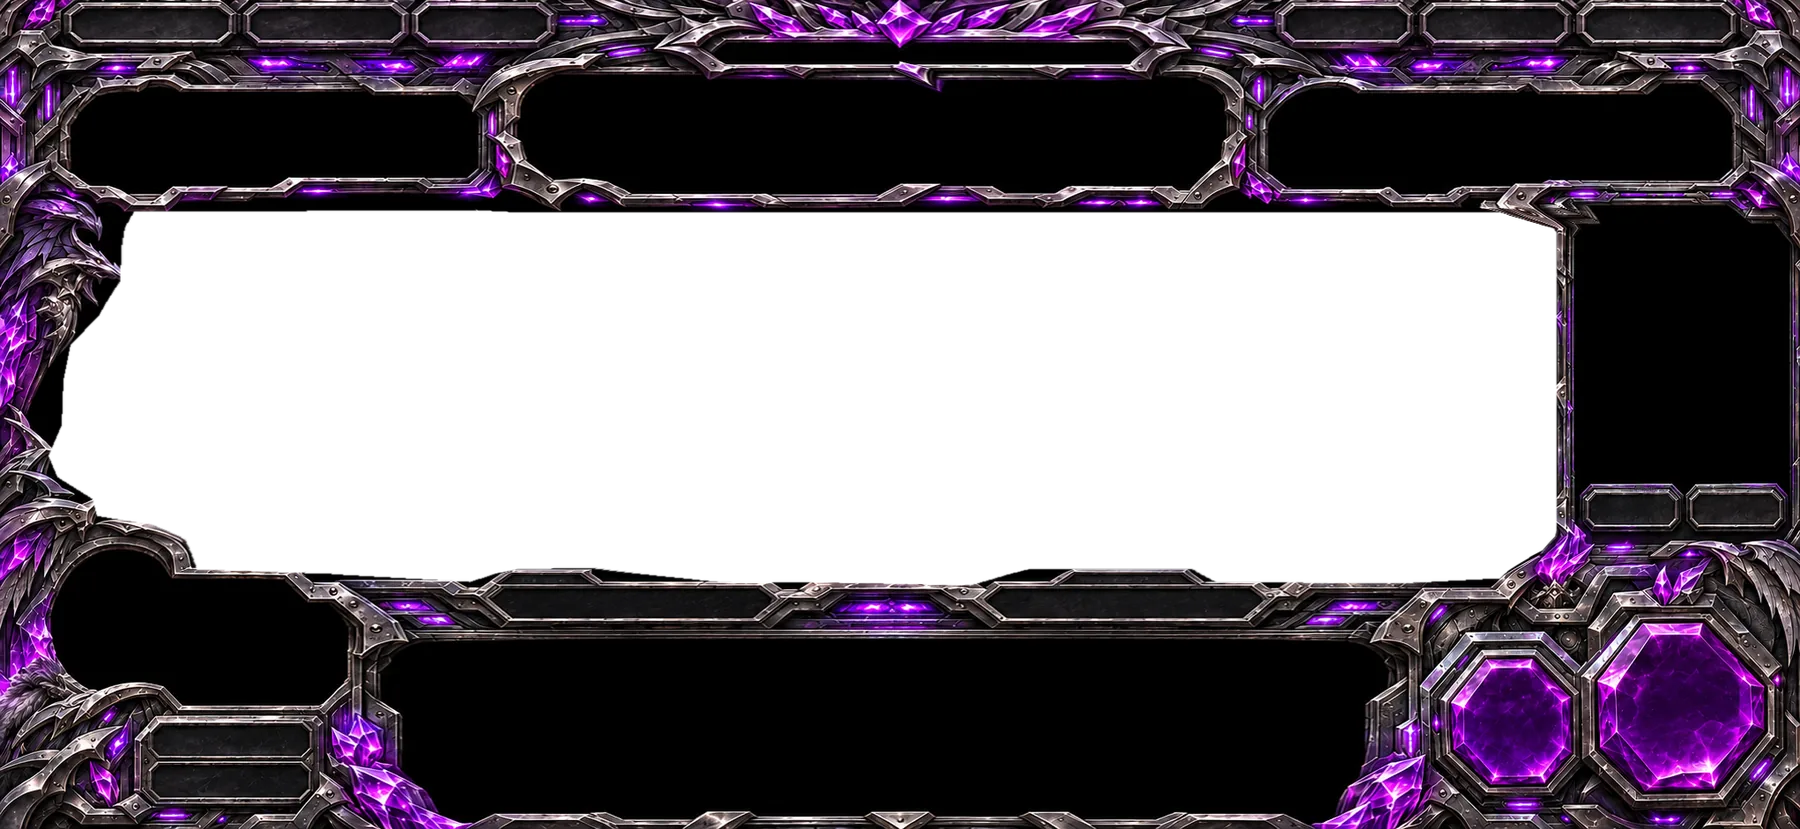
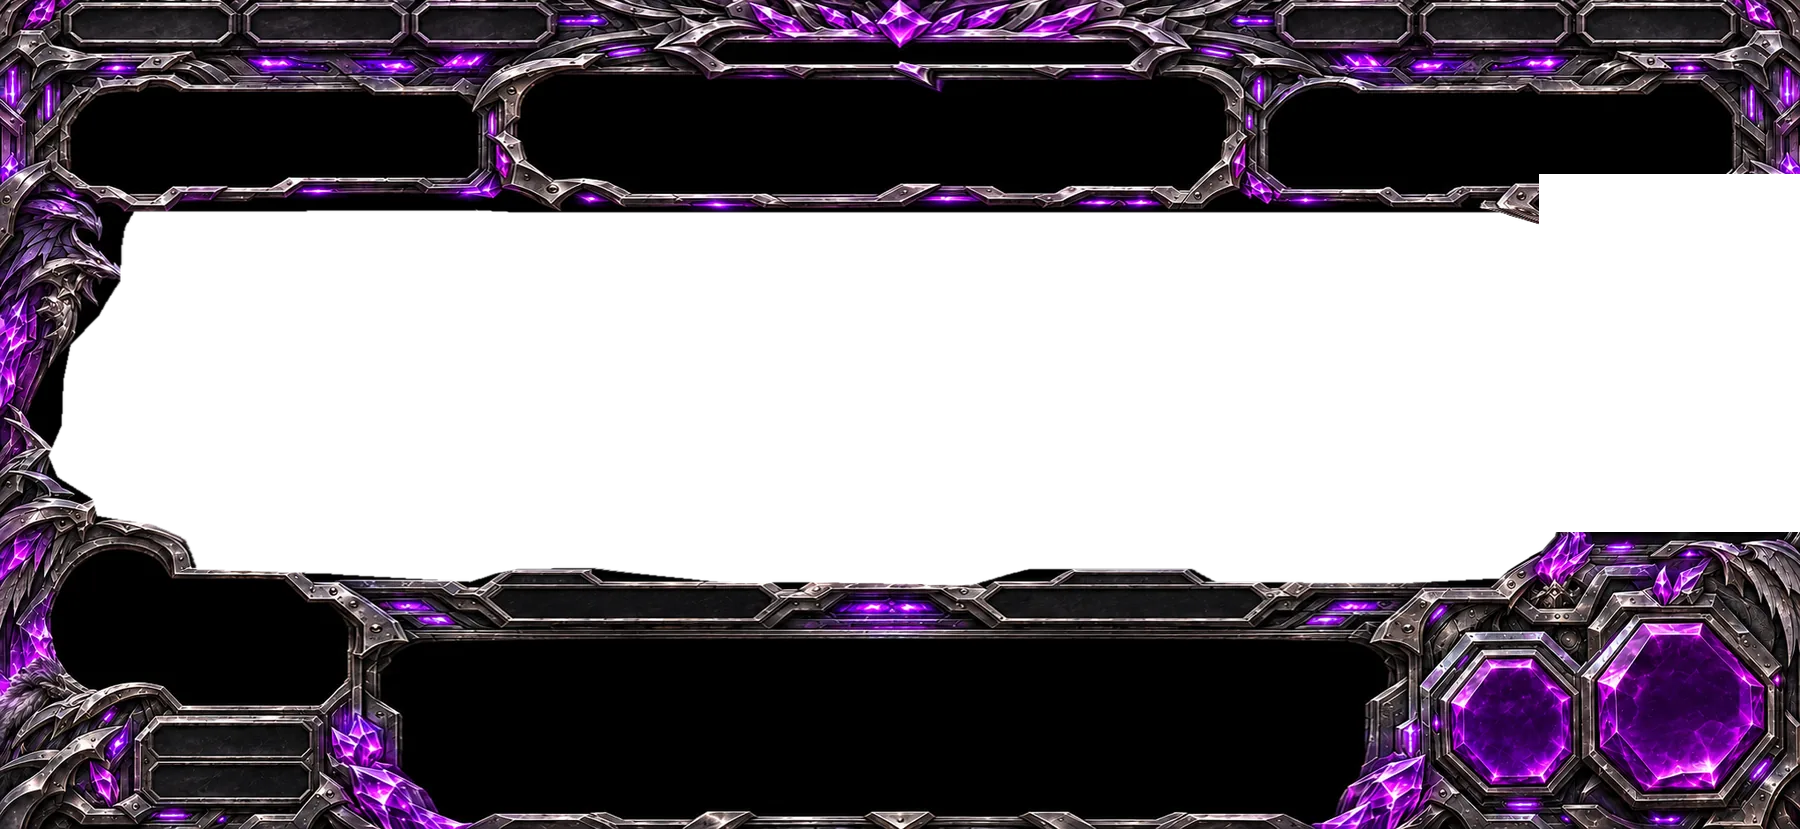
iPhone game log: owner's housing replaces the baked chassis log column (8 palettes); Stack/Undo in its key slots, Board/Table above them
Claude-Session: https://claude.ai/code/session_019NdtRsHhqpW94XWSLkZL4p

Changed region(s): [[0.84, 0.2111, 1.0, 0.6634]]

diff --git a/rebuild/styles/skin-palettes.css b/rebuild/styles/skin-palettes.css
@@ -36,6 +36,7 @@
   --sk-utility-disabled: url("../assets/skin/amethyst/utility-disabled.webp");
   --sk-chassis-phone: url("../assets/skin/amethyst/chassis-phone.webp");
   --sk-chassis-tablet: url("../assets/skin/amethyst/chassis-tablet.webp");
+  --sk-log-housing: url("../assets/skin/amethyst/log-housing.webp");
   --sk-log-key-l-normal: url("../assets/skin/amethyst/log-key-l-normal.webp");
   --sk-log-key-l-pressed: url("../assets/skin/amethyst/log-key-l-pressed.webp");
   --sk-log-key-l-disabled: url("../assets/skin/amethyst/log-key-l-disabled.webp");
@@ -79,6 +80,7 @@
   --sk-utility-disabled: url("../assets/skin/dark-alley/utility-disabled.webp");
   --sk-chassis-phone: url("../assets/skin/dark-alley/chassis-phone.webp");
   --sk-chassis-tablet: url("../assets/skin/dark-alley/chassis-tablet.webp");
+  --sk-log-housing: url("../assets/skin/dark-alley/log-housing.webp");
   --sk-log-key-l-normal: url("../assets/skin/dark-alley/log-key-l-normal.webp");
   --sk-log-key-l-pressed: url("../assets/skin/dark-alley/log-key-l-pressed.webp");
   --sk-log-key-l-disabled: url("../assets/skin/dark-alley/log-key-l-disabled.webp");
@@ -122,6 +124,7 @@
   --sk-utility-disabled: url("../assets/skin/night-flight/utility-disabled.webp");
   --sk-chassis-phone: url("../assets/skin/night-flight/chassis-phone.webp");
   --sk-chassis-tablet: url("../assets/skin/night-flight/chassis-tablet.webp");
+  --sk-log-housing: url("../assets/skin/night-flight/log-housing.webp");
   --sk-log-key-l-normal: url("../assets/skin/night-flight/log-key-l-normal.webp");
   --sk-log-key-l-pressed: url("../assets/skin/night-flight/log-key-l-pressed.webp");
   --sk-log-key-l-disabled: url("../assets/skin/night-flight/log-key-l-disabled.webp");
@@ -165,6 +168,7 @@
   --sk-utility-disabled: url("../assets/skin/ember/utility-disabled.webp");
   --sk-chassis-phone: url("../assets/skin/ember/chassis-phone.webp");
   --sk-chassis-tablet: url("../assets/skin/ember/chassis-tablet.webp");
+  --sk-log-housing: url("../assets/skin/ember/log-housing.webp");
   --sk-log-key-l-normal: url("../assets/skin/ember/log-key-l-normal.webp");
   --sk-log-key-l-pressed: url("../assets/skin/ember/log-key-l-pressed.webp");
   --sk-log-key-l-disabled: url("../assets/skin/ember/log-key-l-disabled.webp");
@@ -208,6 +212,7 @@
   --sk-utility-disabled: url("../assets/skin/frost/utility-disabled.webp");
   --sk-chassis-phone: url("../assets/skin/frost/chassis-phone.webp");
   --sk-chassis-tablet: url("../assets/skin/frost/chassis-tablet.webp");
+  --sk-log-housing: url("../assets/skin/frost/log-housing.webp");
   --sk-log-key-l-normal: url("../assets/skin/frost/log-key-l-normal.webp");
   --sk-log-key-l-pressed: url("../assets/skin/frost/log-key-l-pressed.webp");
   --sk-log-key-l-disabled: url("../assets/skin/frost/log-key-l-disabled.webp");
@@ -251,6 +256,7 @@
   --sk-utility-disabled: url("../assets/skin/gold/utility-disabled.webp");
   --sk-chassis-phone: url("../assets/skin/gold/chassis-phone.webp");
   --sk-chassis-tablet: url("../assets/skin/gold/chassis-tablet.webp");
+  --sk-log-housing: url("../assets/skin/gold/log-housing.webp");
   --sk-log-key-l-normal: url("../assets/skin/gold/log-key-l-normal.webp");
   --sk-log-key-l-pressed: url("../assets/skin/gold/log-key-l-pressed.webp");
   --sk-log-key-l-disabled: url("../assets/skin/gold/log-key-l-disabled.webp");
@@ -294,6 +300,7 @@
   --sk-utility-disabled: url("../assets/skin/forge/utility-disabled.webp");
   --sk-chassis-phone: url("../assets/skin/forge/chassis-phone.webp");
   --sk-chassis-tablet: url("../assets/skin/forge/chassis-tablet.webp");
+  --sk-log-housing: url("../assets/skin/forge/log-housing.webp");
   --sk-log-key-l-normal: url("../assets/skin/forge/log-key-l-normal.webp");
   --sk-log-key-l-pressed: url("../assets/skin/forge/log-key-l-pressed.webp");
   --sk-log-key-l-disabled: url("../assets/skin/forge/log-key-l-disabled.webp");
@@ -337,6 +344,7 @@
   --sk-utility-disabled: url("../assets/skin/emerald/utility-disabled.webp");
   --sk-chassis-phone: url("../assets/skin/emerald/chassis-phone.webp");
   --sk-chassis-tablet: url("../assets/skin/emerald/chassis-tablet.webp");
+  --sk-log-housing: url("../assets/skin/emerald/log-housing.webp");
   --sk-log-key-l-normal: url("../assets/skin/emerald/log-key-l-normal.webp");
   --sk-log-key-l-pressed: url("../assets/skin/emerald/log-key-l-pressed.webp");
   --sk-log-key-l-disabled: url("../assets/skin/emerald/log-key-l-disabled.webp");

diff --git a/rebuild/src/ui/game/board-layout.js b/rebuild/src/ui/game/board-layout.js
@@ -44,16 +44,16 @@ const PHONE = {
     creatures: [109.52, 275.64, 176.96, 96.32], artifacts: [297.88, 275.82, 110.24, 91.16], enchantments: [460.85, 275.82, 111.3, 91.16],
     planeswalkers: [617.85, 275.82, 111.3, 91.16], lands: [757.3, 275.64, 218.4, 96.32]
   },
-  // Housings measured in the frame art (chassis/iPhone-*-edge.png): the log window (x 1014.6-1153, y 132.5-315.5) and one
-  // pair of key housings under it (y 317.8-338.3): Board and Table sit on those. Stack / Undo and Host Tools have no
-  // housing in the frame, so they keep the kit's utility key art, on the same columns, inside the window and below the pair.
-  log: { cluster: [1016, 139, 132, 261], face: [1014.6, 139, 138.6, 26], hit: [1016, 139, 132, 50], rows: [1025, 169, 115, 65] },
+  // Log column: the chassis' own column is erased in the phone art; the owner's housing replaces it (see tools below).
+  log: { cluster: [1011.8, 114, 136.2, 261], housing: [994, 114, 166, 229], face: [1014.6, 139, 138.6, 26], hit: [1016, 139, 132, 50], rows: [1025, 169, 115, 65] },
   tools: {
-    // iPhone: the owner's log command keys (left / right, 133 x 64 and 130 x 64 art), centred on the old utility keys.
-    stack: { face: [1017, 252.5, 66, 31.7], hit: [1016, 244, 68.7, 50.7], art: true, logKey: 'l' },
-    undo: { face: [1083.4, 252.5, 66, 32.5], hit: [1084.7, 244, 63.3, 50.7], art: true, logKey: 'r' },
-    board: { face: [1023.7, 317.8, 55.6, 20.5], hit: [1016, 294.7, 68.7, 52.7] },
-    table: { face: [1090.1, 317.8, 56.3, 20.5], hit: [1084.7, 294.7, 63.3, 52.7] },
+    // iPhone (owner, 22 Nov: "replace that area"): the owner's log housing, 166 x 229 at the housing's 308 x 425 proportions,
+    // covers the erased chassis column (assets/skin tools/skin-assets.py LOG_ERASE). Its two key slots (y 298.9-327) take Stack and
+    // Undo; Board and Table are the same command keys in a row above them, under the three entries.
+    stack: { face: [1012.5, 296.5, 69.4, 33.4], hit: [1011.8, 291.7, 69.5, 50.7], art: true, logKey: 'l' },
+    undo: { face: [1085, 296.5, 68, 33.4], hit: [1084.5, 291.7, 69.5, 50.7], art: true, logKey: 'r' },
+    board: { face: [1012.5, 249.8, 69.4, 33.4], hit: [1011.8, 241, 69.5, 50.7], art: true, logKey: 'l' },
+    table: { face: [1085, 249.8, 68, 33.4], hit: [1084.5, 241, 69.5, 50.7], art: true, logKey: 'r' },
     host: { face: [1023.7, 358, 122.7, 20.5], hit: [1016, 347.4, 132, 52.6], art: true }
   },
   // Jewels: hit = the map's control rect; art = where the jewel art lines up with the chassis housing (matched against

diff --git a/rebuild/src/ui/game/board-view.js b/rebuild/src/ui/game/board-view.js
@@ -234,6 +234,7 @@ export function boardHtml(o) {
       </div>
 
       <div class="game__right gp-contents">
+        ${L.log.housing ? html`<span ${at(L.log.housing, 'gp-loghousing', { cluster: rail })} aria-hidden="true"></span>` : ''}
         <div class="glog gp-contents ${phone ? 'glog--phone' : ''}">
           <button type="button" ${at(L.log.hit, 'gp-key gp-logtitle link-btn glog__title is-clamp', { face: L.log.face, cluster: rail })} data-act="log"><span class="gp-face">Game Log</span></button>
           <ol ${at(L.log.rows, 'glog__list gp-logrows', { cluster: rail })}>${view.log.slice(0, logLength(phone)).map(e => html`<li class="glog__row glog__row--${e.type || 'plain'}">${e.text}</li>`)}</ol>

diff --git a/rebuild/styles/game-board.css b/rebuild/styles/game-board.css
@@ -269,3 +269,4 @@
 
 /* The pass curtain covers the whole stage. */
 .game--gp .curtain { z-index: 50; }
+.gp--phone .gp-loghousing { background: var(--sk-log-housing) 0 0 / 100% 100% no-repeat; pointer-events: none; }

diff --git a/rebuild/tools/skin-assets.py b/rebuild/tools/skin-assets.py
@@ -4,7 +4,7 @@
     python3 -I tools/skin-assets.py /path/to/extracted/handoff [--sizes]   (about 2 minutes)
     python3 -I tools/skin-assets.py --dice [life-dice folder]               (reward dice art -> assets/skin/dice/)
     python3 -I tools/skin-assets.py --mats [playmats folder]                (reward playmats -> assets/skin/mats/, prints palette picks)
-    python3 -I tools/skin-assets.py --log [frame folder]                    (iPhone Stack/Undo log command keys (the housing is already in the chassis art) -> assets/skin/<palette>/log-*.webp)
+    python3 -I tools/skin-assets.py --log [frame folder]                    (iPhone Stack/Undo log command keys and the game-log housing; the iPhone chassis is rebuilt with the baked log column erased -> assets/skin/<palette>/log-*.webp)
     python3 -I tools/skin-assets.py --css                                  (only rewrite styles/skin-palettes.css)
 
 Layout written (ids are the app's lower-case playmat ids, data/playmats.js):
@@ -49,7 +49,9 @@ GAME = [
 # The player status light (art/status, amber in the handoff) tinted per state (owner, 15 Nov: green / yellow / red).
 STATUS_TINTS = {'green': 105, 'yellow': 18, 'red': -32}   # hue shift in degrees from the amber lens
 QUALITY = 82
-# iPhone game-log keys (owner's frame folder: art/log-command-key-left/right; 8 palettes; keys also pressed/disabled)
+# iPhone game-log housing + keys (owner's frame folder: art/game-log-housing, art/log-command-key-left/right; 8 palettes; keys also pressed/disabled)
+# Baked log column of the iPhone chassis (1160 x 535 map units: window, Board/Table bays) that the owner's housing replaces (22 Nov).
+LOG_ERASE = (992, 112, 1160, 343)
 LOG_KEYS = [('log-command-key-left', 'log-key-l'), ('log-command-key-right', 'log-key-r')]
 
 
@@ -65,6 +67,15 @@ def fit(im, box):
     if scale >= 1:
         return im
     return im.resize((round(im.width * scale), round(im.height * scale)), Image.LANCZOS)
+
+
+def erase_log_column(im):
+    """Clear the chassis' baked log column (alpha 0) so the playmat and the owner's housing art show there."""
+    k = im.width / 1160
+    x0, y0, x1, y1 = (round(v * k) for v in LOG_ERASE)
+    im = im.convert('RGBA')
+    im.paste((0, 0, 0, 0), (x0, y0, min(x1, im.width), y1))
+    return im
 
 
 def save(im, out, lossless=False):
@@ -111,6 +122,7 @@ def write_css(root):
         for _, name, _ in GAME:
             if name != 'die':
                 decl.append(f'--sk-{name}: url("../assets/skin/{pid(p)}/{name}.webp")')
+        decl.append(f'--sk-log-housing: url("../assets/skin/{pid(p)}/log-housing.webp")')
         for _, name in LOG_KEYS:
             for st in ('normal', 'pressed', 'disabled'):
                 decl.append(f'--sk-{name}-{st}: url("../assets/skin/{pid(p)}/{name}-{st}.webp")')
@@ -157,6 +169,9 @@ def main():
     if '--log' in sys.argv:   # iPhone game-log housing and command keys (lazy per palette, like the other palette art)
         d = args[0] if args else '/home/user/dc-runs/ilog/frame'
         for p in PALETTES:
+            save(Image.open(os.path.join(d, 'art/game-log-housing', f'{p}-normal.png')).convert('RGBA'), os.path.join(dest, pid(p), 'log-housing.webp'))
+            ch = fit(Image.open(os.path.join(args[1] if len(args) > 1 else '/home/user/vh', f'art/chassis/iPhone-{p}-edge.png')).convert('RGBA'), (1800, None))
+            save(erase_log_column(ch), os.path.join(dest, pid(p), 'chassis-phone.webp'))
             for fam, name in LOG_KEYS:
                 for st in ('normal', 'pressed', 'disabled'):
                     save(Image.open(os.path.join(d, 'art', fam, f'{p}-{st}.png')).convert('RGBA'), os.path.join(dest, pid(p), f'{name}-{st}.webp'))
@@ -176,6 +191,8 @@ def main():
         im = Image.open(os.path.join(src, rel_src))
         im.load()
         im = fit(im.convert('RGBA') if 'A' in im.getbands() or im.mode == 'P' else im.convert('RGB'), box)
+        if rel_out.endswith('/chassis-phone.webp'):
+            im = erase_log_column(im)
         n = save(im, os.path.join(dest, rel_out), lossless)
         group = rel_out.split('/')[0]
         totals[group] = totals.get(group, 0) + n

diff --git a/rebuild/tests/shots_game.py b/rebuild/tests/shots_game.py
@@ -91,7 +91,7 @@ VB = {'iPhone': (1160, 535), 'iPad': (950, 610)}
 # housings under the log, the mana well and tips pane bars above the hand, the hand window's centre line.
 HOUSINGS = {
     'iPhone': {'graveyard': (97.7, 466.5, 148.25, 487.5), 'tokens': (148.25, 466.5, 198.8, 487.5), 'exile': (97.7, 492, 148.25, 514.2), 'attachments': (148.25, 492, 198.8, 514.2),
-               'board': (1023.7, 317.8, 1079.3, 338.3), 'table': (1090.1, 317.8, 1146.4, 338.3), 'mana': (314.1, 369.6, 500.5, 399.1), 'tip': (634, 369, 816.3, 398.5), 'hand': (252.2, 413, 890.2, 423)},
+               'board': (1012.5, 249.8, 1081.9, 283.2), 'table': (1085, 249.8, 1153, 283.2), 'mana': (314.1, 369.6, 500.5, 399.1), 'tip': (634, 369, 816.3, 398.5), 'hand': (252.2, 413, 890.2, 423)},
     'iPad': {'graveyard': (97.7, 541.5, 148.25, 562.5), 'tokens': (148.25, 541.5, 198.8, 562.5), 'exile': (97.7, 567, 148.25, 589.2), 'attachments': (148.25, 567, 198.8, 589.2),
              'board': (796, 392.8, 859.1, 413.3), 'table': (871, 392.8, 934.7, 413.3), 'mana': (285.8, 444.6, 414.8, 474.1), 'tip': (508, 444, 634.7, 473.6), 'hand': (242.6, 488, 686.4, 498)},
 }

diff --git a/rebuild/DEVICE_CHECKS.md b/rebuild/DEVICE_CHECKS.md
@@ -141,7 +141,7 @@ V34. ☐ Game History (Recent games panel, Close) and Achievements (Level panel 
 V35. ☐ Settings: Guidance level (Coach / Assist / Rules only) and Preferences (Learning tips and Send rule corrections switches, Account, Backup, Dev report); Close. Switches show on/off art.
 V36. ☐ Rules (Table rules before a game, Table Defaults, host Rules edit): Commander panel and Table options panel with switches, House rule chips still appear, and Who goes first? sits at the bottom of Table options. Cancel/Back and Save/Start still work. Table Defaults: Players on the left, house rules on the right.
 V37. ☐ Help (Ask the Judge): Search rules panel (search box and topic chips) and Result panel; the dialog has the plain panel background, no striped judge background. Searching filters the results.
-V50. ☐ Open a card that is not in the deck (card window) with card strength on, next to the Upgrades row for the same swap → expect the same power number on both (e.g. "+0.1 power"), plus a separate "Deck score ±x" chip; "power" never labels the deck-score change.
+V50. ☐ iPhone game screen, every palette (change the playmat in Settings): the right-hand log column is the owner's game-log housing in that palette (the old baked column is gone, no leftover steel or black strip around it). Inside it: Game Log title and three entries, then Board / Table, then Stack / Undo sitting in the housing's two key slots; all four wear the log command keys (left and right), text centred. Press and hold each: the pressed look shows. With nothing to undo, Undo is dimmed. Every key is easy to tap and none triggers its neighbour. Host Tools sits just below, unchanged. Notch on the left and on the right: the column moves in with the safe area and nothing is cut. A palette's art may load a moment after you pick it. iPad and desktop unchanged.
 V38. ☐ Change the playmat to Ember and Frost: all these routes take the colour; on the iPad the panels are taller and centred.
 
 ## In-game dialogs, Table Tracker, host Table View and Judge View (visual rebuild, stage 3d)

diff --git a/rebuild/INDEX.md b/rebuild/INDEX.md
@@ -48,7 +48,7 @@ Line numbers drift; grep the function name (`grep -n "^function name" file`), th
 | Rules audit | tools/rules-audit.mjs <scryfall.json> |
 | Practice-match bot | src/game/bot.js, practice-match.js |
 | Game screen layout | src/ui/screens/game.js (render; opponent seats oppRowHtml, controlsHtml) · src/ui/game/play-state.js (statusLight, playControls, seatLayout/rotateTo, phone log length; node tests in tests/node/game.mjs) · styles/game-play.css · player effects for the light: game/view.js row.effects |
-| iPhone log keys (Stack / Undo art, per palette, pressed / disabled) | tools/skin-assets.py --log [frame folder] -> assets/skin/<palette>/log-key-{l,r}-*.webp; vars --sk-log-key-*; styles/game-board.css `.gp-tool--log-*`; layout board-layout.js phone tools.stack/undo `logKey`. The log housing is already baked into the chassis (not layered) |
+| iPhone log column (owner's housing replaces the chassis' baked column; Stack/Undo/Board/Table wear the log command keys, pressed/disabled, per palette) | tools/skin-assets.py --log [frame folder] (writes log-housing / log-key-{l,r}-* and rebuilds chassis-phone.webp with LOG_ERASE cleared) -> assets/skin/<palette>/; vars --sk-log-*; styles/game-board.css `.gp-loghousing`, `.gp-tool--log-*`; layout board-layout.js phone `log.housing`, tools.* `logKey` |
 | Node tests | tests/node/*.mjs |
 
 ## Scratch scripts (live-data measurements, not in the repo)
